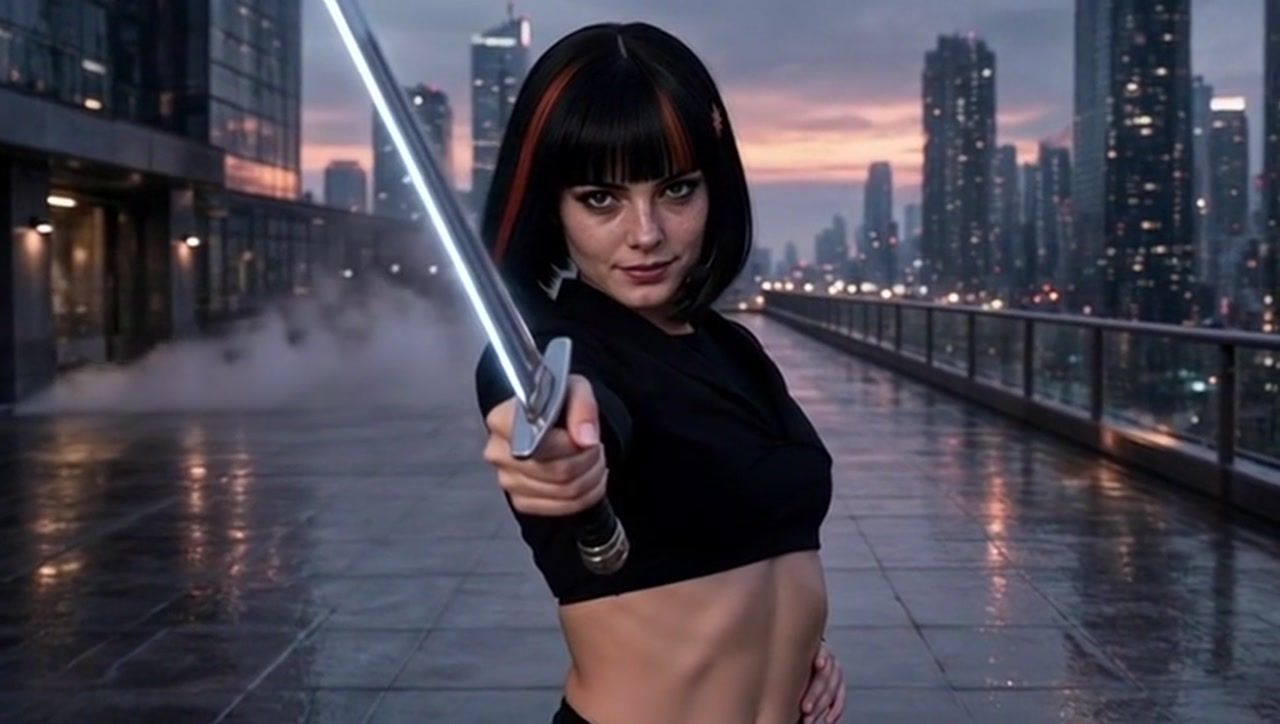
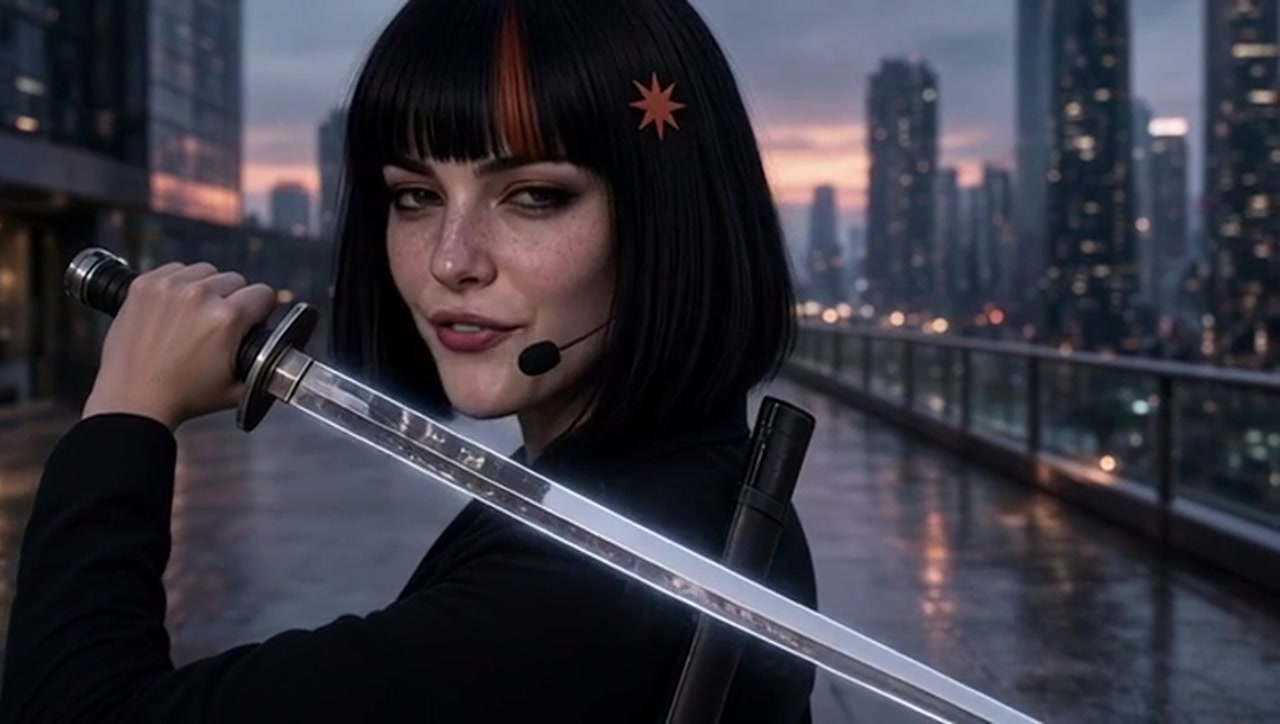
Add a share link under each video and a clothed sword poster.
Each harness and sword player now has the live URL under it. Sword stills show on the page, and the Full Pass poster is a clothed frame from that clip.

diff --git a/index.html b/index.html
@@ -51,6 +51,17 @@
       width: 100%;
       background: #000;
     }
+    img.still {
+      display: block;
+      width: 100%;
+      height: auto;
+      margin: 0 0 8px;
+    }
+    .share {
+      margin: 8px 0 0;
+      font-size: 15px;
+      overflow-wrap: anywhere;
+    }
     footer {
       margin-top: 56px;
       color: var(--muted);
@@ -64,18 +75,32 @@
     <p>Clips from this repo. Press play. The files are served from this site.</p>
 
     <h2>What's a Harness</h2>
-    <p>The remastered cut, the Higgsfield original, then the song on its own.</p>
+    <p>The remastered cut, the Higgsfield original, the Grok Imagine passes, then the song on its own.</p>
     <figure>
-      <figcaption>Remastered</figcaption>
+      <figcaption>What's a Harness, remastered</figcaption>
       <video controls preload="metadata" poster="projects/whats-a-harness/thumbs/whats-a-harness-remastered.jpg" src="projects/whats-a-harness/whats-a-harness-remastered.mp4"></video>
+      <p class="share"><a href="https://hgardneriv-slopcore.vercel.app/projects/whats-a-harness/whats-a-harness-remastered.mp4" target="_blank" rel="noopener">https://hgardneriv-slopcore.vercel.app/projects/whats-a-harness/whats-a-harness-remastered.mp4</a></p>
     </figure>
     <figure>
-      <figcaption>Picture and song</figcaption>
+      <figcaption>What's a Harness</figcaption>
       <video controls preload="metadata" poster="projects/whats-a-harness/thumbs/whats-a-harness.jpg" src="projects/whats-a-harness/whats-a-harness.mp4"></video>
+      <p class="share"><a href="https://hgardneriv-slopcore.vercel.app/projects/whats-a-harness/whats-a-harness.mp4" target="_blank" rel="noopener">https://hgardneriv-slopcore.vercel.app/projects/whats-a-harness/whats-a-harness.mp4</a></p>
     </figure>
-    <p><a href="https://hgardneriv-slopcore.vercel.app/projects/whats-a-harness/grok-imagine-whats-a-harness.mp4" target="_blank" rel="noopener">What's a Harness, Grok Imagine</a></p>
-    <p><a href="https://hgardneriv-slopcore.vercel.app/projects/whats-a-harness/grok-imagine-whats-a-harness-1.mp4" target="_blank" rel="noopener">What's a Harness, Grok Imagine, pass 1</a></p>
-    <p><a href="https://hgardneriv-slopcore.vercel.app/projects/whats-a-harness/grok-imagine-whats-a-harness-2.mp4" target="_blank" rel="noopener">What's a Harness, Grok Imagine, pass 2</a></p>
+    <figure>
+      <figcaption>What's a Harness, Grok Imagine</figcaption>
+      <video controls preload="metadata" poster="projects/whats-a-harness/thumbs/grok-imagine-whats-a-harness.jpg" src="projects/whats-a-harness/grok-imagine-whats-a-harness.mp4"></video>
+      <p class="share"><a href="https://hgardneriv-slopcore.vercel.app/projects/whats-a-harness/grok-imagine-whats-a-harness.mp4" target="_blank" rel="noopener">https://hgardneriv-slopcore.vercel.app/projects/whats-a-harness/grok-imagine-whats-a-harness.mp4</a></p>
+    </figure>
+    <figure>
+      <figcaption>What's a Harness, Grok Imagine, pass 1</figcaption>
+      <video controls preload="metadata" poster="projects/whats-a-harness/thumbs/grok-imagine-whats-a-harness-1.jpg" src="projects/whats-a-harness/grok-imagine-whats-a-harness-1.mp4"></video>
+      <p class="share"><a href="https://hgardneriv-slopcore.vercel.app/projects/whats-a-harness/grok-imagine-whats-a-harness-1.mp4" target="_blank" rel="noopener">https://hgardneriv-slopcore.vercel.app/projects/whats-a-harness/grok-imagine-whats-a-harness-1.mp4</a></p>
+    </figure>
+    <figure>
+      <figcaption>What's a Harness, Grok Imagine, pass 2</figcaption>
+      <video controls preload="metadata" poster="projects/whats-a-harness/thumbs/grok-imagine-whats-a-harness-2.jpg" src="projects/whats-a-harness/grok-imagine-whats-a-harness-2.mp4"></video>
+      <p class="share"><a href="https://hgardneriv-slopcore.vercel.app/projects/whats-a-harness/grok-imagine-whats-a-harness-2.mp4" target="_blank" rel="noopener">https://hgardneriv-slopcore.vercel.app/projects/whats-a-harness/grok-imagine-whats-a-harness-2.mp4</a></p>
+    </figure>
     <figure>
       <figcaption>Song</figcaption>
       <audio controls preload="metadata" src="projects/whats-a-harness/whats-a-harness.wav"></audio>
@@ -85,15 +110,21 @@
     <p>The guitar riff is inside these pictures.</p>
     <figure>
       <figcaption>Sword Play, Full Pass</figcaption>
-      <video controls preload="metadata" src="projects/swordplay/swordplay-hero-3.mp4"></video>
+      <a href="https://hgardneriv-slopcore.vercel.app/projects/swordplay/swordplay-hero-3.mp4" target="_blank" rel="noopener"><img class="still" src="projects/swordplay/thumbs/swordplay-hero-3.jpg" alt="Sword Play, Full Pass" width="1280"></a>
+      <video controls preload="metadata" poster="projects/swordplay/thumbs/swordplay-hero-3.jpg" src="projects/swordplay/swordplay-hero-3.mp4"></video>
+      <p class="share"><a href="https://hgardneriv-slopcore.vercel.app/projects/swordplay/swordplay-hero-3.mp4" target="_blank" rel="noopener">https://hgardneriv-slopcore.vercel.app/projects/swordplay/swordplay-hero-3.mp4</a></p>
     </figure>
     <figure>
-      <figcaption>2nd pass</figcaption>
-      <video controls preload="metadata" src="projects/swordplay/swordplay-full.mp4"></video>
+      <figcaption>Sword Play, 2nd pass</figcaption>
+      <a href="https://hgardneriv-slopcore.vercel.app/projects/swordplay/swordplay-full.mp4" target="_blank" rel="noopener"><img class="still" src="projects/swordplay/thumbs/swordplay-full.jpg" alt="Sword Play, 2nd pass" width="1280"></a>
+      <video controls preload="metadata" poster="projects/swordplay/thumbs/swordplay-full.jpg" src="projects/swordplay/swordplay-full.mp4"></video>
+      <p class="share"><a href="https://hgardneriv-slopcore.vercel.app/projects/swordplay/swordplay-full.mp4" target="_blank" rel="noopener">https://hgardneriv-slopcore.vercel.app/projects/swordplay/swordplay-full.mp4</a></p>
     </figure>
     <figure>
-      <figcaption>First Pass</figcaption>
-      <video controls preload="metadata" src="projects/swordplay/swordplay.mp4"></video>
+      <figcaption>Sword Play, First Pass</figcaption>
+      <a href="https://hgardneriv-slopcore.vercel.app/projects/swordplay/swordplay.mp4" target="_blank" rel="noopener"><img class="still" src="projects/swordplay/thumbs/swordplay.jpg" alt="Sword Play, First Pass" width="1280"></a>
+      <video controls preload="metadata" poster="projects/swordplay/thumbs/swordplay.jpg" src="projects/swordplay/swordplay.mp4"></video>
+      <p class="share"><a href="https://hgardneriv-slopcore.vercel.app/projects/swordplay/swordplay.mp4" target="_blank" rel="noopener">https://hgardneriv-slopcore.vercel.app/projects/swordplay/swordplay.mp4</a></p>
     </figure>
 
     <footer>

diff --git a/projects/swordplay/README.md b/projects/swordplay/README.md
@@ -2,9 +2,17 @@
 
 Short Grok Imagine sword-fight pictures cut to the guitar riff. The riff is in these clips. This is the earlier picture, before What's a Harness. The rooftop sword fight stayed out of that song.
 
-- <a href="https://hgardneriv-slopcore.vercel.app/projects/swordplay/swordplay.mp4" target="_blank" rel="noopener">First Pass</a>
-- <a href="https://hgardneriv-slopcore.vercel.app/projects/swordplay/swordplay-full.mp4" target="_blank" rel="noopener">2nd pass</a>
-- <a href="https://hgardneriv-slopcore.vercel.app/projects/swordplay/swordplay-hero-3.mp4" target="_blank" rel="noopener">Sword Play, Full Pass</a>
+<a href="https://hgardneriv-slopcore.vercel.app/projects/swordplay/swordplay.mp4" target="_blank" rel="noopener"><img src="thumbs/swordplay.jpg" alt="Sword Play, First Pass" width="640"></a>
+
+<a href="https://hgardneriv-slopcore.vercel.app/projects/swordplay/swordplay.mp4" target="_blank" rel="noopener">Sword Play, First Pass</a>
+
+<a href="https://hgardneriv-slopcore.vercel.app/projects/swordplay/swordplay-full.mp4" target="_blank" rel="noopener"><img src="thumbs/swordplay-full.jpg" alt="Sword Play, 2nd pass" width="640"></a>
+
+<a href="https://hgardneriv-slopcore.vercel.app/projects/swordplay/swordplay-full.mp4" target="_blank" rel="noopener">Sword Play, 2nd pass</a>
+
+<a href="https://hgardneriv-slopcore.vercel.app/projects/swordplay/swordplay-hero-3.mp4" target="_blank" rel="noopener"><img src="thumbs/swordplay-hero-3.jpg" alt="Sword Play, Full Pass" width="640"></a>
+
+<a href="https://hgardneriv-slopcore.vercel.app/projects/swordplay/swordplay-hero-3.mp4" target="_blank" rel="noopener">Sword Play, Full Pass</a>
 
 ## Stack
 
